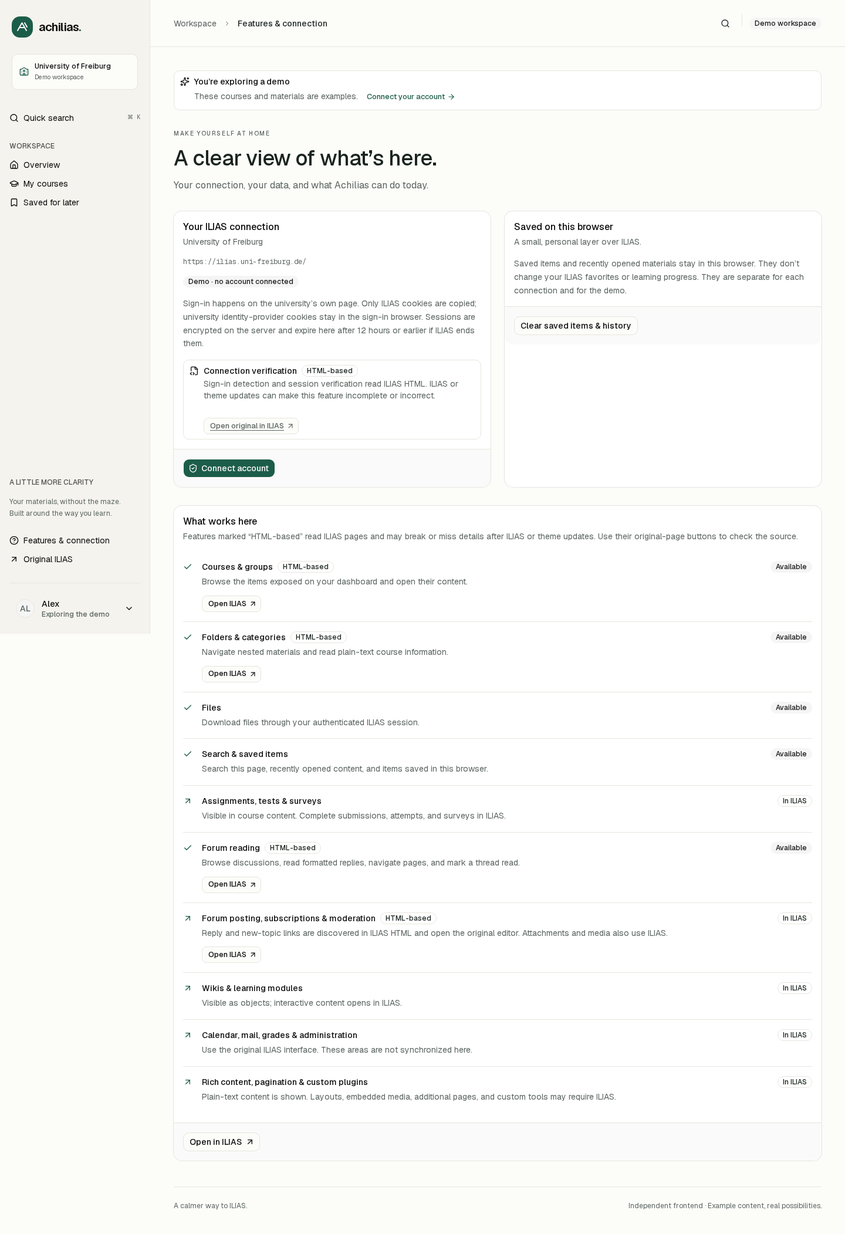
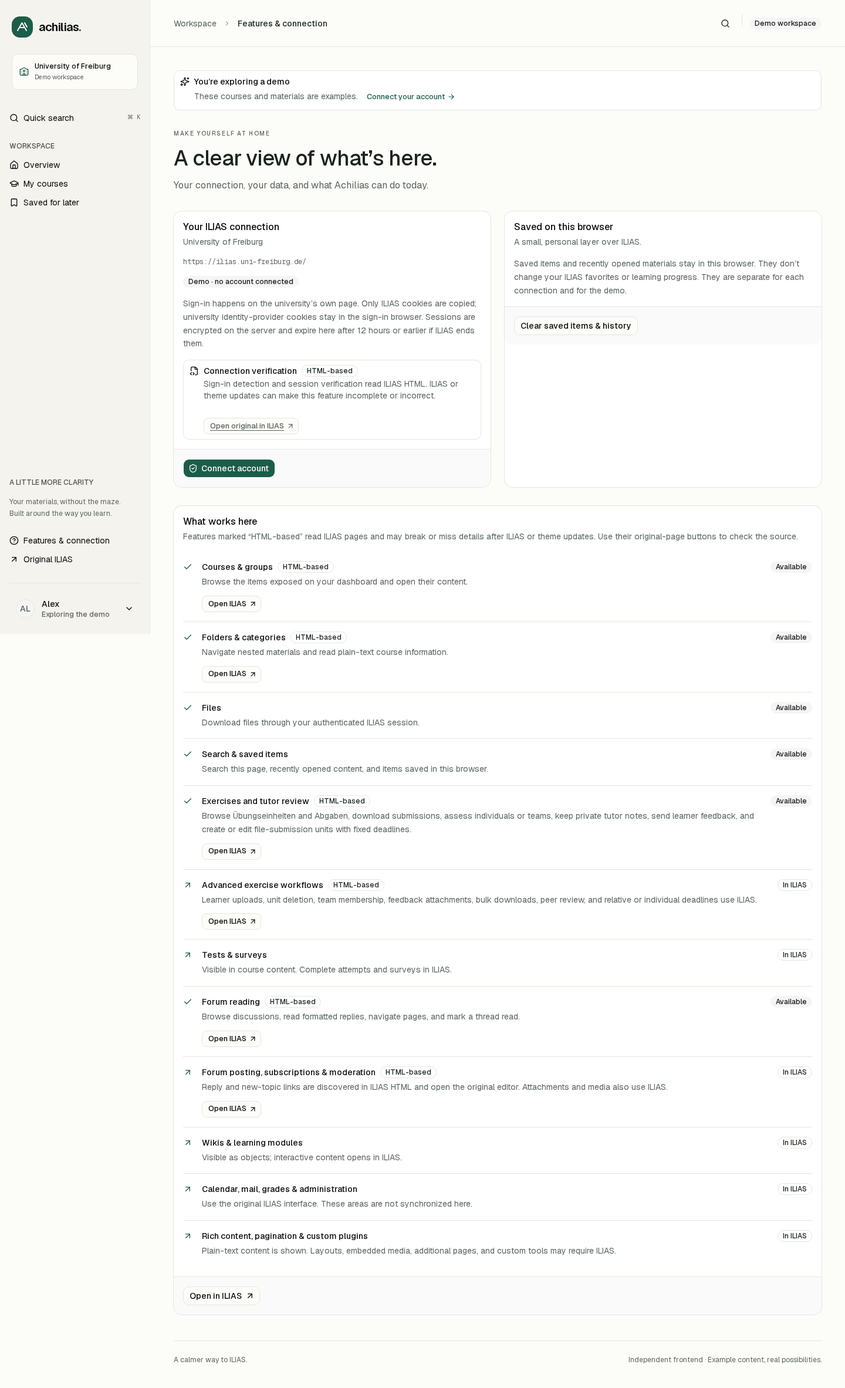
Document tutor workflows and add exercise screenshots

diff --git a/scripts/screenshots.ts b/scripts/screenshots.ts
@@ -107,6 +107,61 @@ try {
       },
     },
     {
+      file: "exercises.png",
+      path: "/exercises/401?demo=1",
+      heading: "Algorithms — Übungen",
+    },
+    {
+      file: "submissions.png",
+      path: "/exercises/401/units/501?demo=1",
+      heading: "Übung 01 — Algorithms",
+    },
+    {
+      file: "assessment.png",
+      path: "/exercises/401/units/501?demo=1",
+      heading: "Übung 01 — Algorithms",
+      dialog: true,
+      prepare: async (page) => {
+        await page
+          .getByRole("list", { name: "Participant submissions" })
+          .getByRole("listitem")
+          .filter({ hasText: "Maya Chen" })
+          .getByRole("button", { name: "Assess", exact: true })
+          .click();
+        await page
+          .getByRole("textbox", {
+            name: "Mark or points / Note oder Punkte",
+            exact: true,
+          })
+          .fill("9 / 10");
+        await page
+          .getByRole("textbox", {
+            name: "Private tutor note / Interne Notiz",
+            exact: true,
+          })
+          .fill("Discuss task 3 in the tutorial.");
+      },
+    },
+    {
+      file: "unit-settings.png",
+      path: "/exercises/401/units/501?demo=1",
+      heading: "Übung 01 — Algorithms",
+      prepare: async (page) => {
+        await page
+          .getByRole("tab", { name: "Unit settings", exact: true })
+          .click();
+        await page
+          .getByRole("textbox", { name: "Title / Titel", exact: true })
+          .waitFor();
+      },
+    },
+    {
+      file: "mobile-submissions.png",
+      path: "/exercises/401/units/502?demo=1",
+      heading: "Übung 02 — Recursion",
+      mobile: true,
+    },
+    {
       file: "mobile-course.png",
       path: "/browse/crs/101?demo=1",
       heading: "Introduction to Computer Science",

diff --git a/README.md b/README.md
@@ -75,6 +75,31 @@ The course and forum screens below use the demo workspace. All course names, mat
 
 </details>
 
+<details>
+<summary>See exercise units and tutor submission review</summary>
+
+![Demo exercise units with deadlines and links to review submissions](docs/screenshots/exercises.png)
+
+![Tutor review of demo submissions with assessment, missing/late filters, downloads, marks, and separate private and learner feedback](docs/screenshots/submissions.png)
+
+</details>
+
+<details>
+<summary>See assessment and unit deadline editing</summary>
+
+<img src="docs/screenshots/assessment.png" alt="Demo assessment editor separating pass/fail, marks, and private tutor notes, with an original ILIAS fallback" width="560" />
+
+![Exercise unit editor showing instructions, opening time, fixed deadline, late-submission deadline, and completion requirement](docs/screenshots/unit-settings.png)
+
+</details>
+
+<details>
+<summary>See team submission review on mobile</summary>
+
+<img src="docs/screenshots/mobile-submissions.png" alt="Mobile tutor view showing team submissions, review filters, and scoped assessment actions" width="390" />
+
+</details>
+
 ## Run locally
 
 ```sh
@@ -94,6 +119,7 @@ Try **http://127.0.0.1:3000/?demo=1** without an account. Example courses, activ
 - Server-rendered dashboard content, course/group browsing, nested folders and categories.
 - Authenticated, streamed file downloads. Errors stay in the interface rather than opening a JSON error page.
 - Course introduction text and original course-tool links.
+- Native exercise/tutor workspace: Übungseinheiten, submission review and downloads, assessment status and marks, private tutor notes, learner feedback, and unit creation/fixed-deadline editing.
 - Native forum browsing and reading: thread search, unread filtering, pin/closed indicators, formatted posts, reply context, post links, chronological views, and thread/post pagination. Search and sorting apply to the loaded page.
 - Explicit **Mark thread read** updates ILIAS using its currently offered action. Demo read status stays in this browser tab. Fresh live discussion links disable background data prefetch so unread/read requests happen when opened. Demo links may be prefetched.
 - Course filtering, grid/list views, and a keyboard-operated **Ctrl/Cmd+K** search palette. Search covers the current page, saved items, and recently opened objects; it is not a repository-wide search.
@@ -103,7 +129,7 @@ Try **http://127.0.0.1:3000/?demo=1** without an account. Example courses, activ
 
 ## What still opens in ILIAS
 
-Assignments/submissions, tests, wikis, learning modules, surveys, sessions, custom objects, calendar, mail, grades, and administration use the original interface. Forum reading is native; replies, new topics, subscriptions, moderation, attachments, and embedded media still open in ILIAS. Reply and new-topic actions are shown only when the loaded ILIAS page offers them. Interactive activity controls and rich course-page layouts are not reproduced. Plain text is extracted from course introductions; links, embedded media, and formatting require the original page. Course listings with pagination show a visible notice and a link to the original listing. Forum thread and post pages have native pagination when ILIAS exposes readable page controls, with an original-page fallback otherwise.
+Learner submission/upload, advanced exercise workflows, tests, wikis, learning modules, surveys, sessions, custom objects, calendar, mail, overall grades, and administration use the original interface. Forum reading is native; replies, new topics, subscriptions, moderation, attachments, and embedded media still open in ILIAS. Reply and new-topic actions are shown only when the loaded ILIAS page offers them. Interactive activity controls and rich course-page layouts are not reproduced. Plain text is extracted from course introductions; links, embedded media, and formatting require the original page. Course listings with pagination show a visible notice and a link to the original listing. Forum thread and post pages have native pagination when ILIAS exposes readable page controls, with an original-page fallback otherwise.
 
 The dashboard adapter reads the courses and groups ILIAS exposes on your dashboard. If a course is missing, add it to the dashboard in ILIAS. This first version does not crawl every enrollment or invent deadlines/progress from incomplete data. New or custom themes may require selector changes. A course always retains an **Open in ILIAS** link.
 
@@ -120,6 +146,21 @@ Open a forum from a course or a saved item. Try [the example forum](http://127.0
 - **Reply in ILIAS** opens the original editor, respecting the page’s available actions. Drafts are not presented as published posts. Closed threads retain ILIAS’s restrictions.
 
 Post formatting includes paragraphs, lists, code, quotes, links, and tables. Bodies are sanitized before rendering; scripts, event handlers, remote images, and embeds are excluded. Posts with embedded content show a visible original-page handoff. Author aliases, moderation notices, and approval status are preserved from ILIAS. An unsupported layout or selected subtree produces a visible notice.
+
+## Tutoring: Übungseinheiten and Abgaben
+
+Open an **Exercise / Übung** from your course or saved items. The [example tutor workspace](http://127.0.0.1:3000/exercises/401?demo=1) and [example submissions](http://127.0.0.1:3000/exercises/401/units/501?demo=1) work without an account.
+
+- Browse exercise units, instructions, opening times, deadlines, and completion requirements.
+- Review the participant/team rows exposed to your account. Filter for unassessed, missing, or late submissions, or search the loaded names/logins/marks. Counts cover the loaded rows and any ILIAS-side filters; absent columns remain unknown. Further pagination and upstream filters remain available through the original-page button.
+- Download a participant or team’s submission through the authenticated proxy. The server rediscovers the authorized download link instead of accepting arbitrary upstream URLs.
+- Save **Not assessed / Passed / Failed**, a mark or points string, and a **private tutor note**. The adapter sends exactly one `listed_part_ids` row so an individual edit cannot accidentally save the whole table. ILIAS applies a team assessment to its members; the editor calls this out explicitly.
+- Write **learner-visible feedback** separately. ILIAS may notify the learner or team on save. The adapter supports recognized feedback forms, including standard async modal URLs and opaque field names; unsupported forms keep their original-page fallback.
+- Create file-submission units and edit supported units’ title, instructions, start, fixed deadline, late-submission deadline, and required/optional setting. Times use the ILIAS profile’s timezone. Editing instructions uses plain text; leaving them unchanged preserves existing rich formatting.
+
+Tutor actions are bound to the displayed account connection, so changing accounts invalidates an open tutor form. Every live write reloads the offered form, retains fresh tokens and unrelated settings, checks the displayed version for stale edits where applicable, and verifies the saved values. A failed or ambiguous verification asks you to check ILIAS before retrying. Live links disable speculative prefetch; mutations invalidate recent page reuse. Server Actions authenticate the session, and ILIAS retains its permission checks.
+
+Relative/individual/locked deadlines, protected requirements, learner uploads, instruction/feedback files, peer review, team membership, unit deletion, and bulk downloads stay in the original interface with visible handoffs. These integrations are **HTML-based**, not an official ILIAS API. **Live tutor permissions and writes still need verification against an authenticated Freiburg account.** Stateful fixture tests and the demo do not establish that compatibility. Demo changes stay in the current browser tab and never grade or notify real learners.
 
 ## Navigation speed and freshness
 
@@ -222,7 +263,7 @@ University identity-provider cookies are not copied into the ILIAS adapter. Remo
 
 ## HTML-based features
 
-Sign-in/session verification, course listings, materials and availability, course information/tool links, and forum content/actions depend on parsing ILIAS HTML. These screens and their feature entries are marked **HTML-based**: ILIAS or theme updates can make them incomplete or incorrect. Each screen keeps an **Open original in ILIAS** button beside the notice, including on load errors. Item detail dialogs also label parsed metadata and link to the original object. Demo notices explain that the displayed content is an example and link to the real instance.
+Sign-in/session verification, course listings, materials and availability, course information/tool links, forum content/actions, and exercise/tutor tools depend on parsing ILIAS HTML. These screens and their feature entries are marked **HTML-based**: ILIAS or theme updates can make them incomplete or incorrect. Each screen keeps an **Open original in ILIAS** button beside the notice, including on load errors. Item detail dialogs also label parsed metadata and link to the original object. Demo notices explain that the displayed content is an example and link to the real instance.
 
 File downloads use the authenticated download endpoint; local bookmarks and search operate on browser/current-page data. Their item details can still originate from parsed HTML.
 
@@ -239,7 +280,7 @@ bun run build
 bun run start --hostname 127.0.0.1
 ```
 
-`bun run test` checks browser-store synchronization, restored-item validation, current-data precedence, object capabilities, concurrent connection claims, cookie-update and disconnect races, ILIAS template parsing, restricted/unsupported content, cookie rotation, redirect credential boundaries, expired sessions, pairing validation, and encrypted session persistence. Forum fixtures follow the ILIAS 10 standard-item and post templates and check counts, hierarchy, sanitization, drafts, permissions, pagination, and action scoping. `bun run test:e2e` checks the demo flows in Chromium, including download, bookmarks across reloads and tabs, quick search, mobile navigation, single-use connection claims, session expiry, and reconnect/disconnect behavior. The last checks use a deliberately credential-free test session against the public Freiburg endpoint; they do not sign in to a real account. `bun run test:forums` runs the forum browser checks alone, including filters, reply context, post search, unread jumps, copied links, read-state persistence in the demo, closed topics, and mobile layouts. `bun run test:headless` exercises the pairing UI, code renewal/cancellation, remote CLI over stdin, and rejection of an unauthenticated transfer. Unit tests mock successful validation to check replay protection and cancellation races; no real account is used. For production navigation, run `bun run test:navigation` and `bun run benchmark:navigation` against a production preview (port 3001 by default). Set `ACHILIAS_TEST_URL` to test another local port.
+`bun run test` checks browser-store synchronization, restored-item validation, current-data precedence, object capabilities, concurrent connection claims, cookie-update and disconnect races, ILIAS template parsing, restricted/unsupported content, cookie rotation, redirect credential boundaries, expired sessions, pairing validation, and encrypted session persistence. Forum fixtures follow the ILIAS 10 standard-item and post templates and check counts, hierarchy, sanitization, drafts, permissions, pagination, and action scoping. `bun run test:e2e` checks the demo flows in Chromium, including download, bookmarks across reloads and tabs, quick search, mobile navigation, single-use connection claims, session expiry, and reconnect/disconnect behavior. The last checks use a deliberately credential-free test session against the public Freiburg endpoint; they do not sign in to a real account. `bun run test:forums` runs the forum browser checks alone, including filters, reply context, post search, unread jumps, copied links, read-state persistence in the demo, closed topics, and mobile layouts. `bun run test:headless` exercises the pairing UI, code renewal/cancellation, remote CLI over stdin, and rejection of an unauthenticated transfer. Unit tests mock successful validation to check replay protection and cancellation races; no real account is used. For production navigation, run `bun run test:navigation` and `bun run benchmark:navigation` against a production preview (port 3001 by default). `bun run test:exercises` runs the tutor browser flows alone: saved exercise navigation, review filters, assessment/private-note persistence, learner feedback, downloads, unit editing/creation, team scope, mobile layout, and unauthenticated download rejection. Stateful exercise fixtures verify fresh-token POSTs, single-row scope, preserved settings, stale-edit rejection, and save confirmation. Set `ACHILIAS_TEST_URL` to test another local port.
 
 While `next dev` is running, use `ACHILIAS_BUILD_DIR=.next-build bun run build` to preserve its `.next` directory. Start that build with the same variable if you want to run it.
 
@@ -249,11 +290,11 @@ While `next dev` is running, use `ACHILIAS_BUILD_DIR=.next-build bun run build` 
 
 ### Refreshing screenshots
 
-With the app running, run `bun run screenshots` to refresh the images in `docs/screenshots/`. Each capture uses a fresh browser context and example content. The script also captures unread filtering, mobile thread reading, seeded demo bookmarks, feature support, and the headless sign-in dialog without creating a connection code. Set `ACHILIAS_SCREENSHOT_URL` to capture from another local address, such as `http://127.0.0.1:3001` for a separate production preview.
+With the app running, run `bun run screenshots` to refresh the images in `docs/screenshots/`. Each capture uses a fresh browser context and example content. The script also captures unread filtering, mobile thread reading, seeded demo bookmarks, feature support, the headless sign-in dialog without creating a connection code, and exercise units, submission review, assessment, and deadline settings. Set `ACHILIAS_SCREENSHOT_URL` to capture from another local address, such as `http://127.0.0.1:3001` for a separate production preview.
 
 ### Integration status
 
-The public Freiburg login/repository pages and upstream ILIAS templates were inspected during development. Automated integration fixtures are based on the upstream list-item, repository-card, standard-item, and ILIAS 10 forum structures. **Authenticated access, remote session portability, SOCKS-assisted sign-in, forum permissions, and the upstream mark-read action still need verification with a real Freiburg account.** Demo success does not establish account-specific compatibility.
+The public Freiburg login/repository pages and upstream ILIAS templates were inspected during development. Automated integration fixtures are based on the upstream list-item, repository-card, standard-item, and ILIAS 10 forum structures. **Authenticated access, remote session portability, SOCKS-assisted sign-in, forum permissions, the upstream mark-read action, and exercise/tutor permissions and write actions still need verification with a real Freiburg account.** Demo success does not establish account-specific compatibility.
 
 Reference sources:
 

diff --git a/docs/architecture.md b/docs/architecture.md
@@ -2,26 +2,30 @@
 
 Routes orchestrate server loaders; loaders adapt ILIAS into typed data; feature components render that data using the installed shadcn components. Keep upstream markup and session secrets out of browser components.
 
-| Responsibility                                                    | Location                                                                 |
-| ----------------------------------------------------------------- | ------------------------------------------------------------------------ |
-| App routes, HTTP endpoints, and Server Actions                    | `src/app`                                                                |
-| Shared account metadata and empty page state                      | `src/lib/ilias/workspace-context.ts`                                     |
-| Course/dashboard loading                                          | `src/lib/ilias/workspace.ts`                                             |
-| Forum loading and authorized upstream actions                     | `src/lib/ilias/forum.ts`                                                 |
-| ILIAS HTML adaptation and forum body sanitization                 | `src/lib/ilias/parser.ts`, `forum-parser.ts`                             |
-| Authenticated requests, redirect boundaries, and cookie rotation  | `src/lib/ilias/client.ts`                                                |
-| Session encryption, cookies, claims, and per-session locks        | `src/lib/ilias/session.ts`                                               |
-| Sign-in windows and laptop helper transfers                       | `login.ts`, `browser-login.ts`, `remote-login.ts`, `remote-client.ts`    |
-| Object labels, support classification, identity, and destinations | `src/lib/ilias/items.ts`                                                 |
-| Shared reference/thread/post ID validation                        | `src/lib/ilias/identifiers.ts`                                           |
-| Saved/recent item validation, merging, and updates                | `src/lib/ilias/library.ts`                                               |
-| Browser storage snapshots and subscriptions                       | `src/lib/browser-store.ts`, `src/hooks/use-browser-store.ts`             |
-| Bookmark/history actions and feedback                             | `src/hooks/use-library.ts`                                               |
-| Workspace composition and local interaction state                 | `src/components/workspace/workspace-view.tsx`                            |
-| Sidebar/account menu, resource lists, and settings                | `navigation.tsx`, `item-list.tsx`, `settings-view.tsx` in that directory |
-| Shared resource opening, upstream handoffs, and refresh           | `src/components/navigation`                                              |
-| Forum list/thread presentation                                    | `src/components/forums`                                                  |
-| Installed shadcn primitives                                       | `src/components/ui`                                                      |
+| Responsibility                                                                       | Location                                                                 |
+| ------------------------------------------------------------------------------------ | ------------------------------------------------------------------------ |
+| App routes, HTTP endpoints, and Server Actions                                       | `src/app`                                                                |
+| Shared account metadata and empty page state                                         | `src/lib/ilias/workspace-context.ts`                                     |
+| Course/dashboard loading                                                             | `src/lib/ilias/workspace.ts`                                             |
+| Exercise unit discovery, grading, feedback, and verified form submissions            | `src/lib/ilias/exercise.ts`                                              |
+| Exercise HTML adaptation, successful-control serialization, and version fingerprints | `src/lib/ilias/exercise-parser.ts`                                       |
+| Exercise payload validation shared by browser and server                             | `src/lib/ilias/exercise-validation.ts`                                   |
+| Tutor workspace and scoped editors                                                   | `src/components/exercises`                                               |
+| Forum loading and authorized upstream actions                                        | `src/lib/ilias/forum.ts`                                                 |
+| ILIAS HTML adaptation and forum body sanitization                                    | `src/lib/ilias/parser.ts`, `forum-parser.ts`                             |
+| Authenticated requests, redirect boundaries, and cookie rotation                     | `src/lib/ilias/client.ts`                                                |
+| Session encryption, cookies, claims, and per-session locks                           | `src/lib/ilias/session.ts`                                               |
+| Sign-in windows and laptop helper transfers                                          | `login.ts`, `browser-login.ts`, `remote-login.ts`, `remote-client.ts`    |
+| Object labels, support classification, identity, and destinations                    | `src/lib/ilias/items.ts`                                                 |
+| Shared reference/thread/post ID validation                                           | `src/lib/ilias/identifiers.ts`                                           |
+| Saved/recent item validation, merging, and updates                                   | `src/lib/ilias/library.ts`                                               |
+| Browser storage snapshots and subscriptions                                          | `src/lib/browser-store.ts`, `src/hooks/use-browser-store.ts`             |
+| Bookmark/history actions and feedback                                                | `src/hooks/use-library.ts`                                               |
+| Workspace composition and local interaction state                                    | `src/components/workspace/workspace-view.tsx`                            |
+| Sidebar/account menu, resource lists, and settings                                   | `navigation.tsx`, `item-list.tsx`, `settings-view.tsx` in that directory |
+| Shared resource opening, upstream handoffs, and refresh                              | `src/components/navigation`                                              |
+| Forum list/thread presentation                                                       | `src/components/forums`                                                  |
+| Installed shadcn primitives                                                          | `src/components/ui`                                                      |
 
 ## Adding a feature
 
@@ -52,3 +56,15 @@ Run `bun run lint`, `bun run typecheck`, and `bun run test`. Generated Next outp
 With `next dev` running, `bun run test:e2e` covers courses, cross-tab bookmarks, downloads, forums, and headless pairing. Wait for a destination's heading before asserting shared item text: the same resource can appear on both sides of a client navigation. A link visible on the outgoing page is not proof that navigation completed.
 
 Run `bun run test:navigation` against a production server to check real prefetch behavior and account cache clearing. Use `ACHILIAS_BUILD_DIR=.next-build` for a separate build while development is running. Authenticated Freiburg compatibility still needs a real account; fixture and demo tests do not establish it.
+
+## Tutor actions
+
+Exercise routes consume `ExerciseState`; browser components never receive upstream form tokens or cookie jars. Native tutor actions accept object/unit/member IDs, typed values, and the displayed connection key. They reject a changed account connection before contacting ILIAS, rediscover the current authorized form, preserve unrelated successful controls, and submit its actual command. Assessment saves restrict `listed_part_ids[]` to one row; this is the list ILIAS actually iterates, rather than selected checkboxes. Marks, private tutor notes, and learner-visible feedback remain distinct. ILIAS can expand an assessment or learner feedback to the selected participant’s team.
+
+Grading and unit editing compare fingerprints of the currently displayed fields to detect stale drafts; this is a fresh-read check, not a cross-system transaction lock. Changes made concurrently in another client can still race at the upstream server. Post-save reads verify the result. Never automatically retry a write after a timeout or uncertain verification, especially creation or feedback notifications. Unknown or protected form layouts require the original interface rather than guessed commands. Tests use stateful ILIAS 10-shaped fixtures; live Freiburg tutor compatibility requires an authenticated account.
+
+The shared upstream client supports URL-encoded POSTs and browser redirect semantics: 301/302/303 return to GET, while 307/308 preserve the method within the configured instance boundary. Cookies and credentials never follow cross-instance redirects. HTML instructions reuse the same sanitization policy as forum posts. File and exercise downloads share private attachment-response handling.
+
+Browser downloads use the same `downloadFile` helper for course materials and tutor submissions, so expired-session or permission errors stay in the app. The server streams the response; the current browser helper prepares a Blob before handing it to the download manager. Large submissions therefore use browser memory while preparing. Bulk archives remain available in the original interface.
+
+Exercise adapter reference (ILIAS 10, commit `d8dd98bc6cd09446465b2999199594f574babab3`): [exercise management and single-row assessment semantics](https://github.com/ILIAS-eLearning/ILIAS/blob/d8dd98bc6cd09446465b2999199594f574babab3/components/ILIAS/Exercise/classes/class.ilExerciseManagementGUI.php), [unit creation and schedule forms](https://github.com/ILIAS-eLearning/ILIAS/blob/d8dd98bc6cd09446465b2999199594f574babab3/components/ILIAS/Exercise/Assignment/class.ilExAssignmentEditorGUI.php), and [learner feedback and team notification semantics](https://github.com/ILIAS-eLearning/ILIAS/blob/d8dd98bc6cd09446465b2999199594f574babab3/components/ILIAS/Exercise/Submission/class.ilExerciseSubmissionFeedbackGUI.php).
